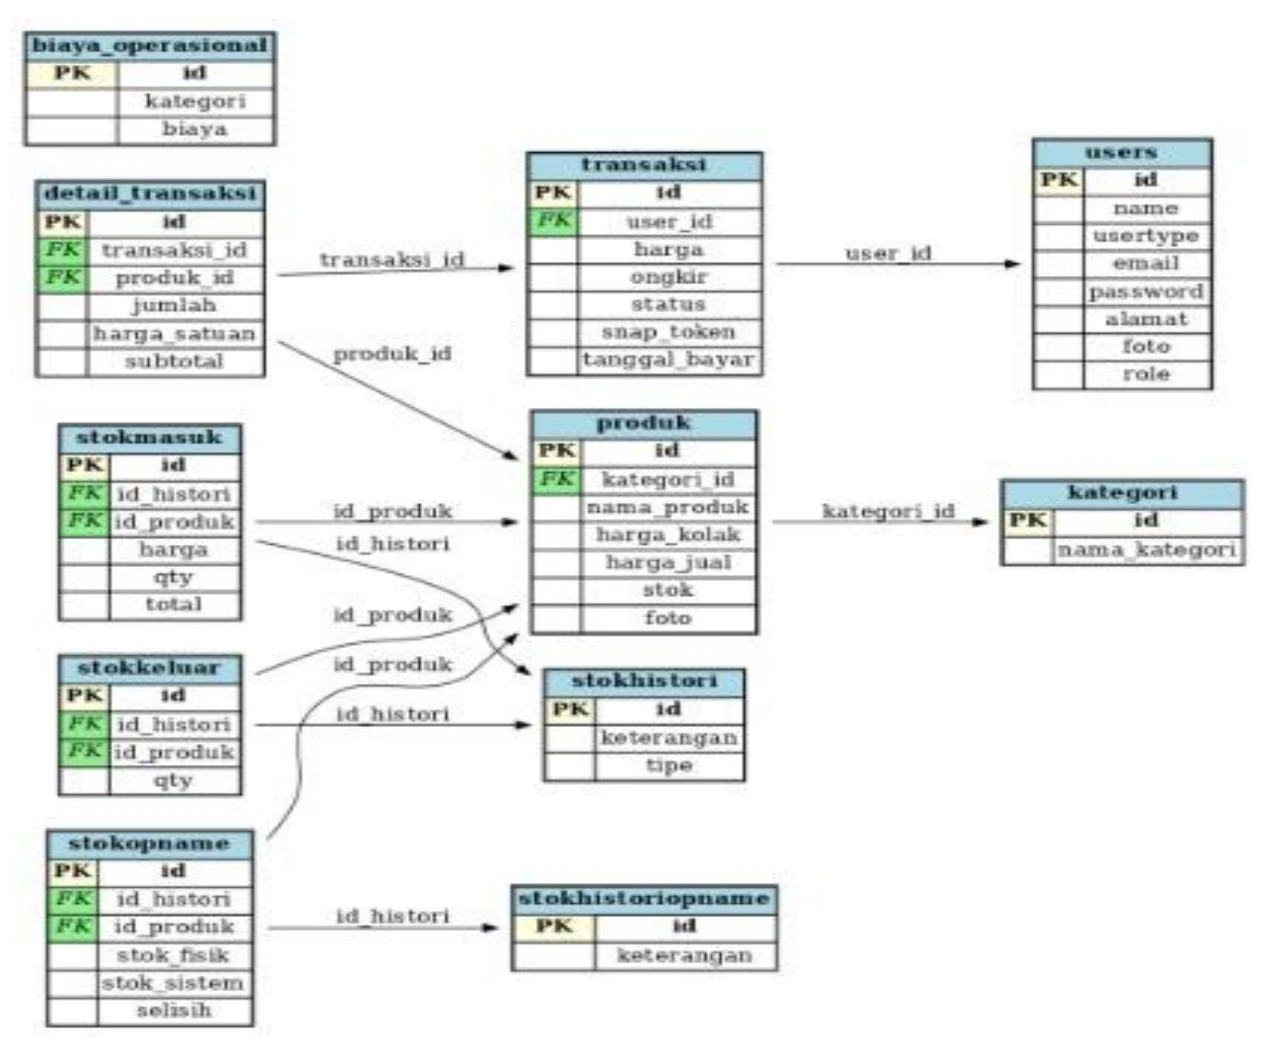
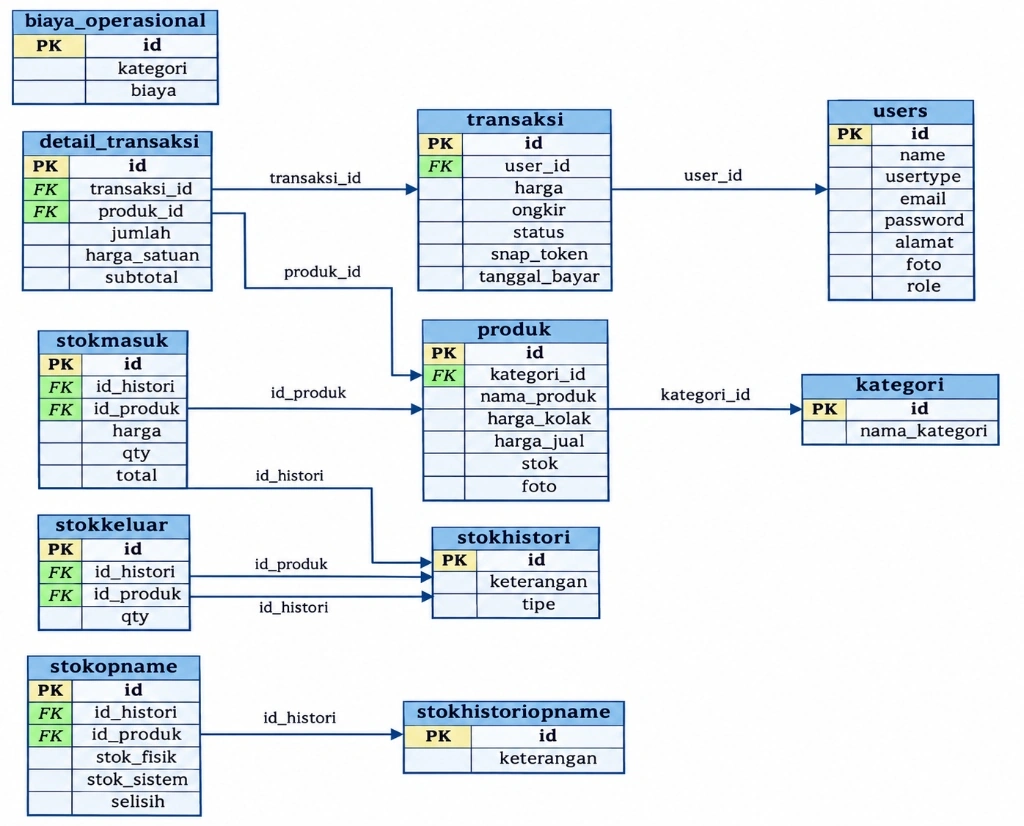
fix(diagram): perbarui diagram ERD basis data Madura Mart dengan gambar resolusi tinggi (11 tabel)

Changed region(s): [[0.0, 0.0, 1.0, 0.9988]]

diff --git a/src/data/projectDataOverrides.js b/src/data/projectDataOverrides.js
@@ -323,9 +323,9 @@ export const PROJECT_OVERRIDES = {
       {
         url: '/projects/raw/madura_erd.webp',
         caption:
-          'Entity Relationship Diagram (ERD): Skema basis data relasional 10 tabel mencakup users, produk, kategori, transaksi, detail_transaksi, stokmasuk, stokkeluar, stokopname, stokhistori, dan biaya_operasional.',
+          'Entity Relationship Diagram (ERD): Skema basis data relasional 11 tabel mencakup users, produk, kategori, transaksi, detail_transaksi, stokmasuk, stokkeluar, stokopname, stokhistori, stokhistoriopname, dan biaya_operasional.',
         caption_en:
-          'Entity Relationship Diagram (ERD): 10-table relational database schema covering users, products, categories, transactions, transaction details, stock in/out/take, history, and operational costs.',
+          'Entity Relationship Diagram (ERD): 11-table relational database schema covering users, products, categories, transactions, transaction details, stock in/out/take, history, stock take history, and operational costs.',
         kind: 'diagram',
         label: 'ERD Basis Data',
         label_en: 'Database ERD',
